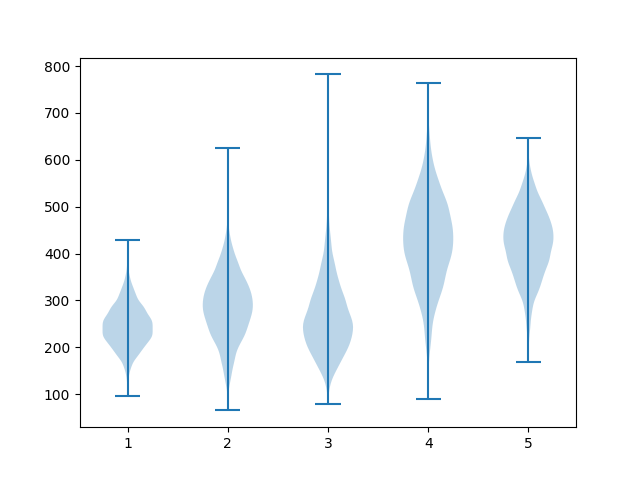
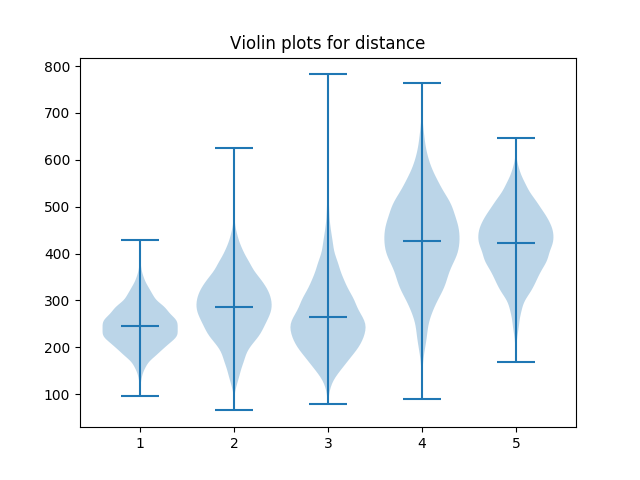
More violins

diff --git a/Inference/violins.py b/Inference/violins.py
@@ -225,7 +225,8 @@ def violinMe(parameter,pref):
       print "   ---%s completed" % thisFolder
       out.append(posterior)
    plt.figure()
-   plt.violinplot(out)
+   plt.title("Violin plots for %s" % parameter)
+   plt.violinplot(out,showmeans=True,widths=0.8)
    plt.savefig("figures/%sviolins_%s.png" % (pref, parameter))
    print "--Figure saved--"
 
